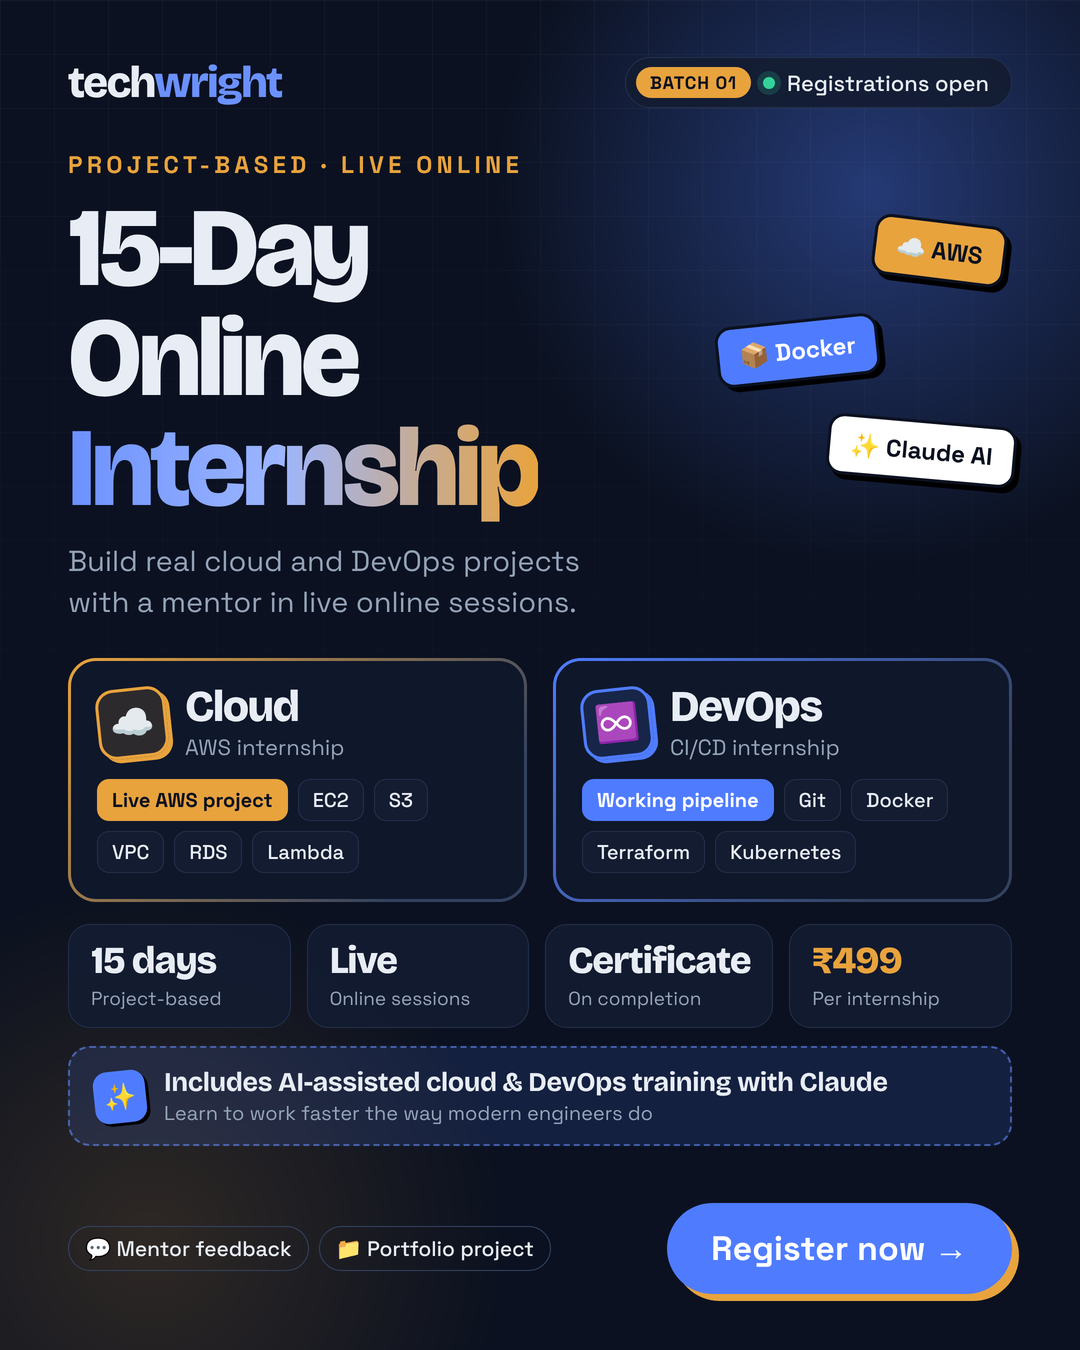
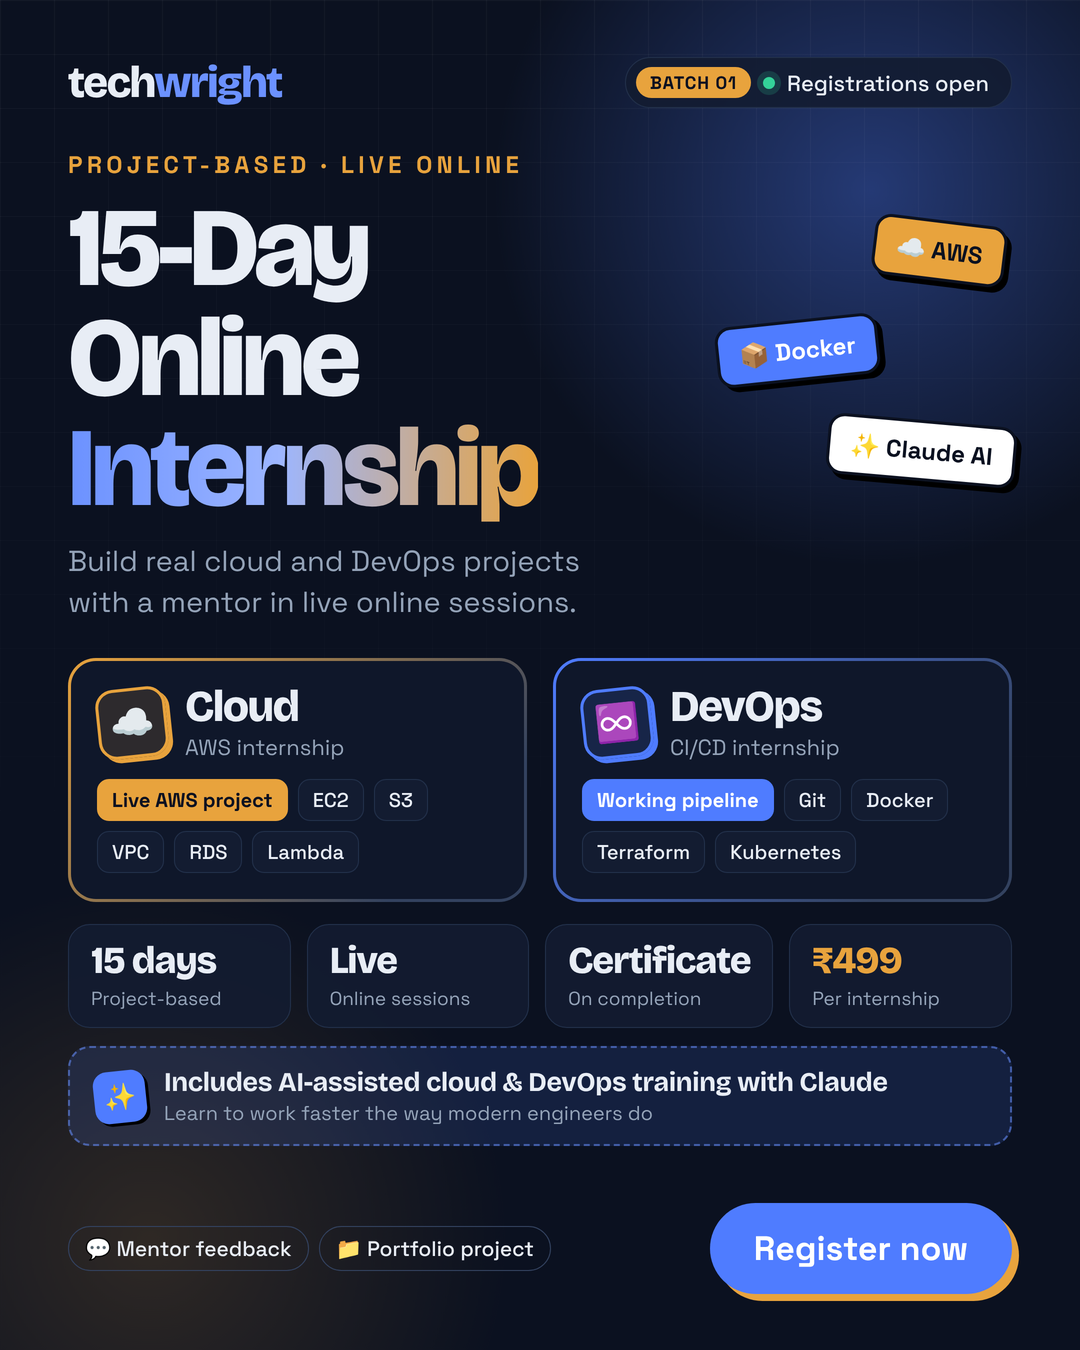
Remove the arrow from the poster's Register now button
Claude-Session: https://claude.ai/code/session_0182Lvua7UhpmNX8GKV5fW14

Changed region(s): [[0.6111, 0.8711, 0.8861, 0.9644]]

diff --git a/marketing/poster.html b/marketing/poster.html
@@ -84,7 +84,7 @@ h1{font-size:112px;font-weight:800;margin-top:14px}
 
 <div class="bottom">
 <div class="gets"><span>💬 Mentor feedback</span><span>📁 Portfolio project</span></div>
-<div class="cta">Register now →</div>
+<div class="cta">Register now</div>
 </div>
 </div>
 </body>
